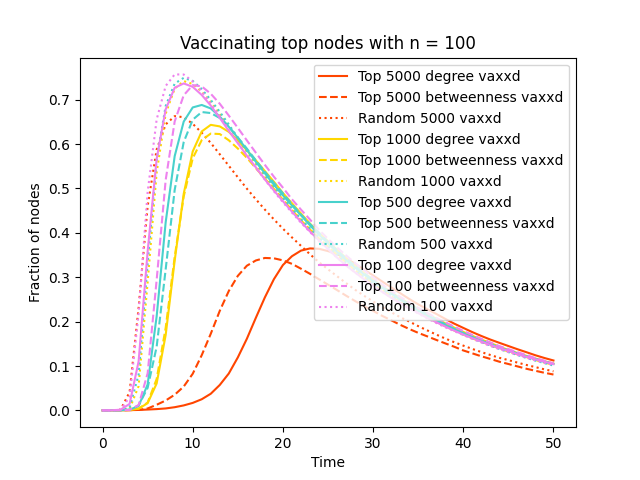
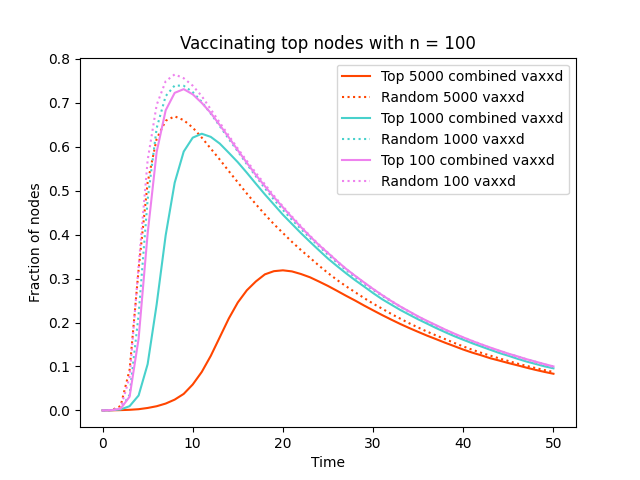
More plots

diff --git a/src/plotter.py b/src/plotter.py
@@ -299,15 +299,15 @@ if not skip:
 #endregion
 
 skip = False
-#region Immune test from 500
+#region Immune test from 5000
 if not skip:
     n_inf = 10
     infs = []
     vacs = []
     lineargs = []
 
-    vax_values = (5000, 1000, 500, 100)
-    colors = ('orangered', 'gold', 'mediumturquoise', 'violet')
+    vax_values = (5000, 1000, 100)
+    colors = ('orangered', 'mediumturquoise', 'violet')
     for n_vax, color in zip(vax_values, colors):
         rnd_n = get_random_for_infection(n_inf)
         rnd_n_vac = get_random_for_vaccine(n_vax)
@@ -327,6 +327,37 @@ if not skip:
         infs,
         vacs,
         lineargs,
-        title=f'Vaccinating top nodes with n = {n_vax}'
+        title=f'Vaccinating top nodes with n = {vax_values}, both between and degree'
+    )
+#endregion
+
+skip = False
+#region Immune test from 5000
+if not skip:
+    n_inf = 10
+    infs = []
+    vacs = []
+    lineargs = []
+
+    vax_values = (5000, 1000, 100)
+    colors = ('orangered', 'mediumturquoise', 'violet')
+    for n_vax, color in zip(vax_values, colors):
+        rnd_n = get_random_for_infection(n_inf)
+        rnd_n_vac = get_random_for_vaccine(n_vax)
+        top, bot = undisjoint(n_vax)
+
+        infs = infs + [rnd_n, rnd_n]
+        vacs = vacs + [top, rnd_n_vac]
+
+        lineargs = lineargs + [
+            [None, {'label': f'Top {n_vax} combined vaxxd', 'color': color}, None],
+            [None, {'label': f'Random {n_vax} vaxxd', 'color': color, 'linestyle': 'dotted'}, None]
+        ]
+    print("Plotting immune undisjoint with vax")
+    plot_models(
+        infs,
+        vacs,
+        lineargs,
+        title=f'Vaccinating top nodes with n = {vax_values}, combined between and degree'
     )
 #endregion
